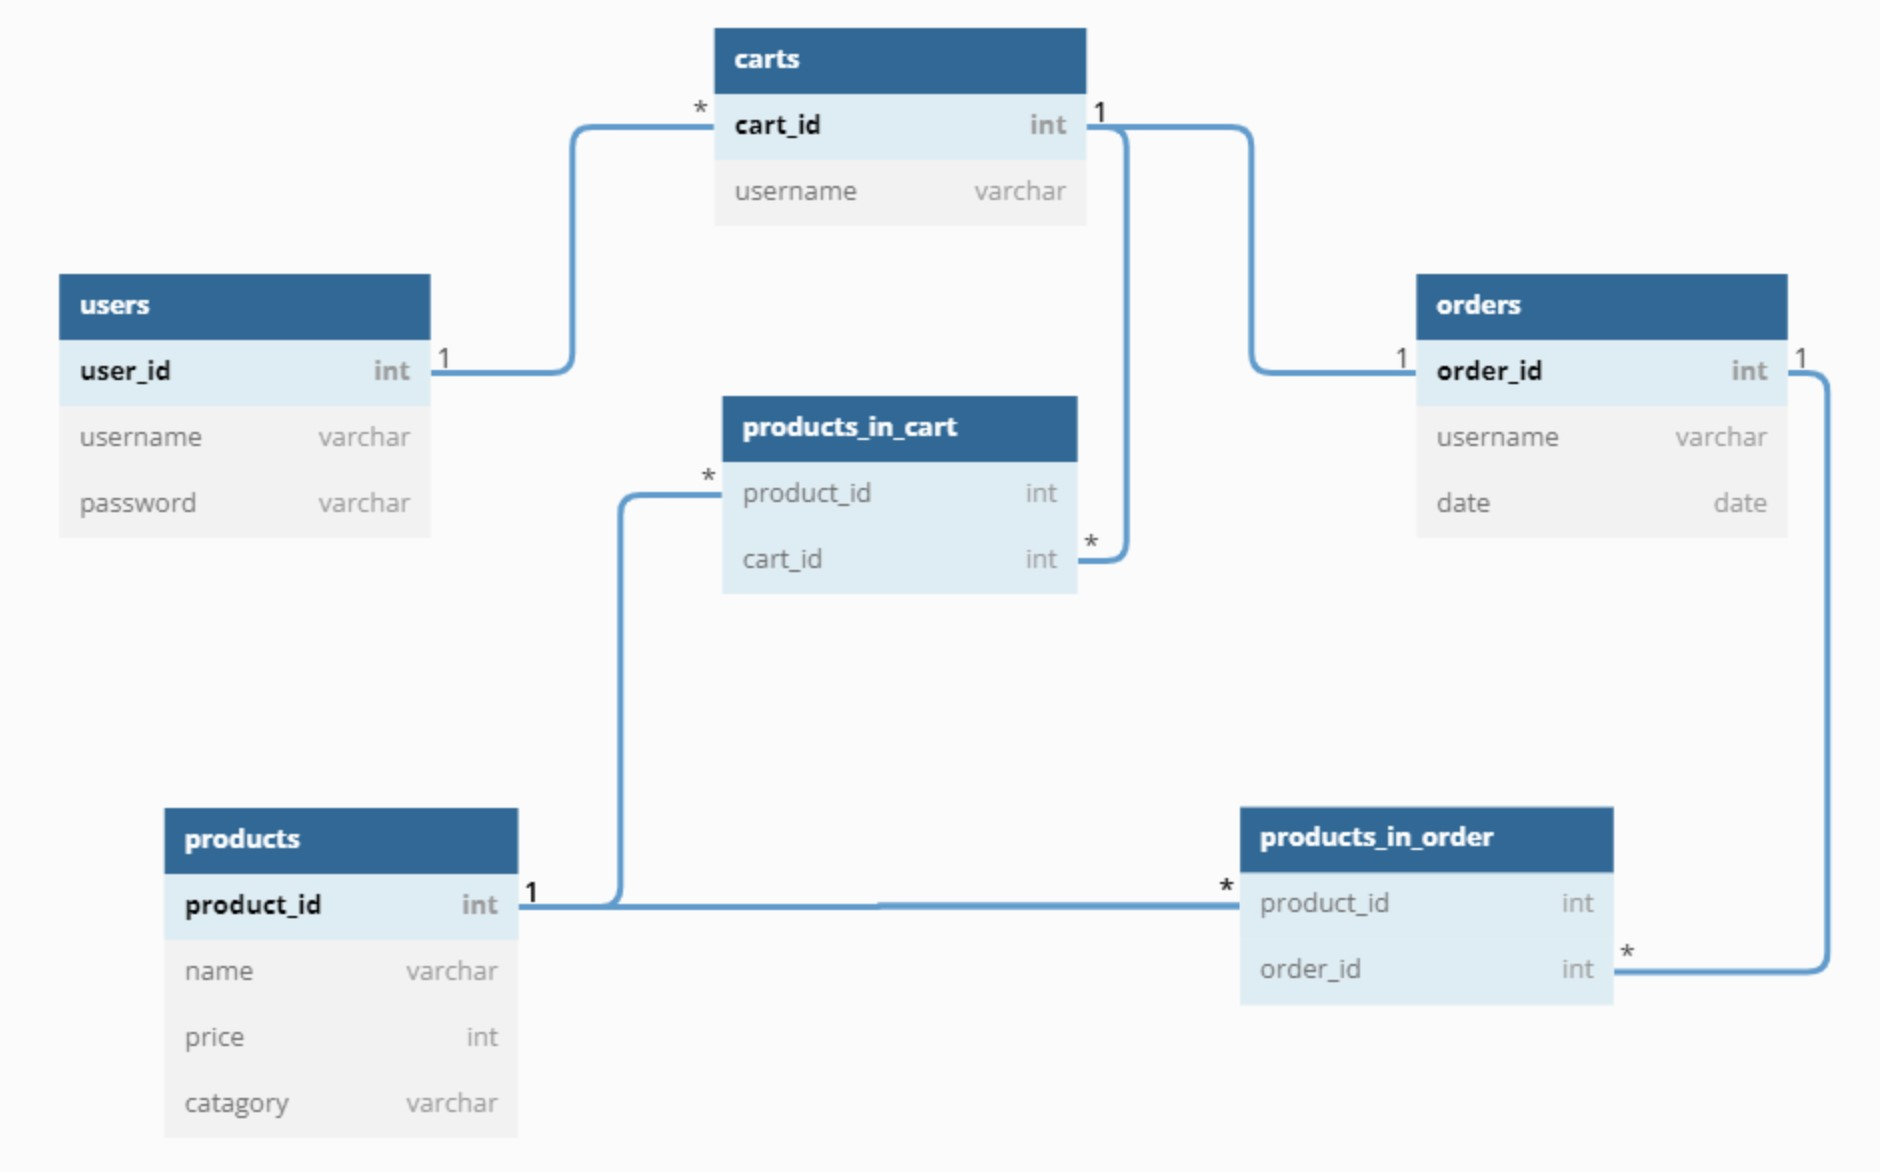
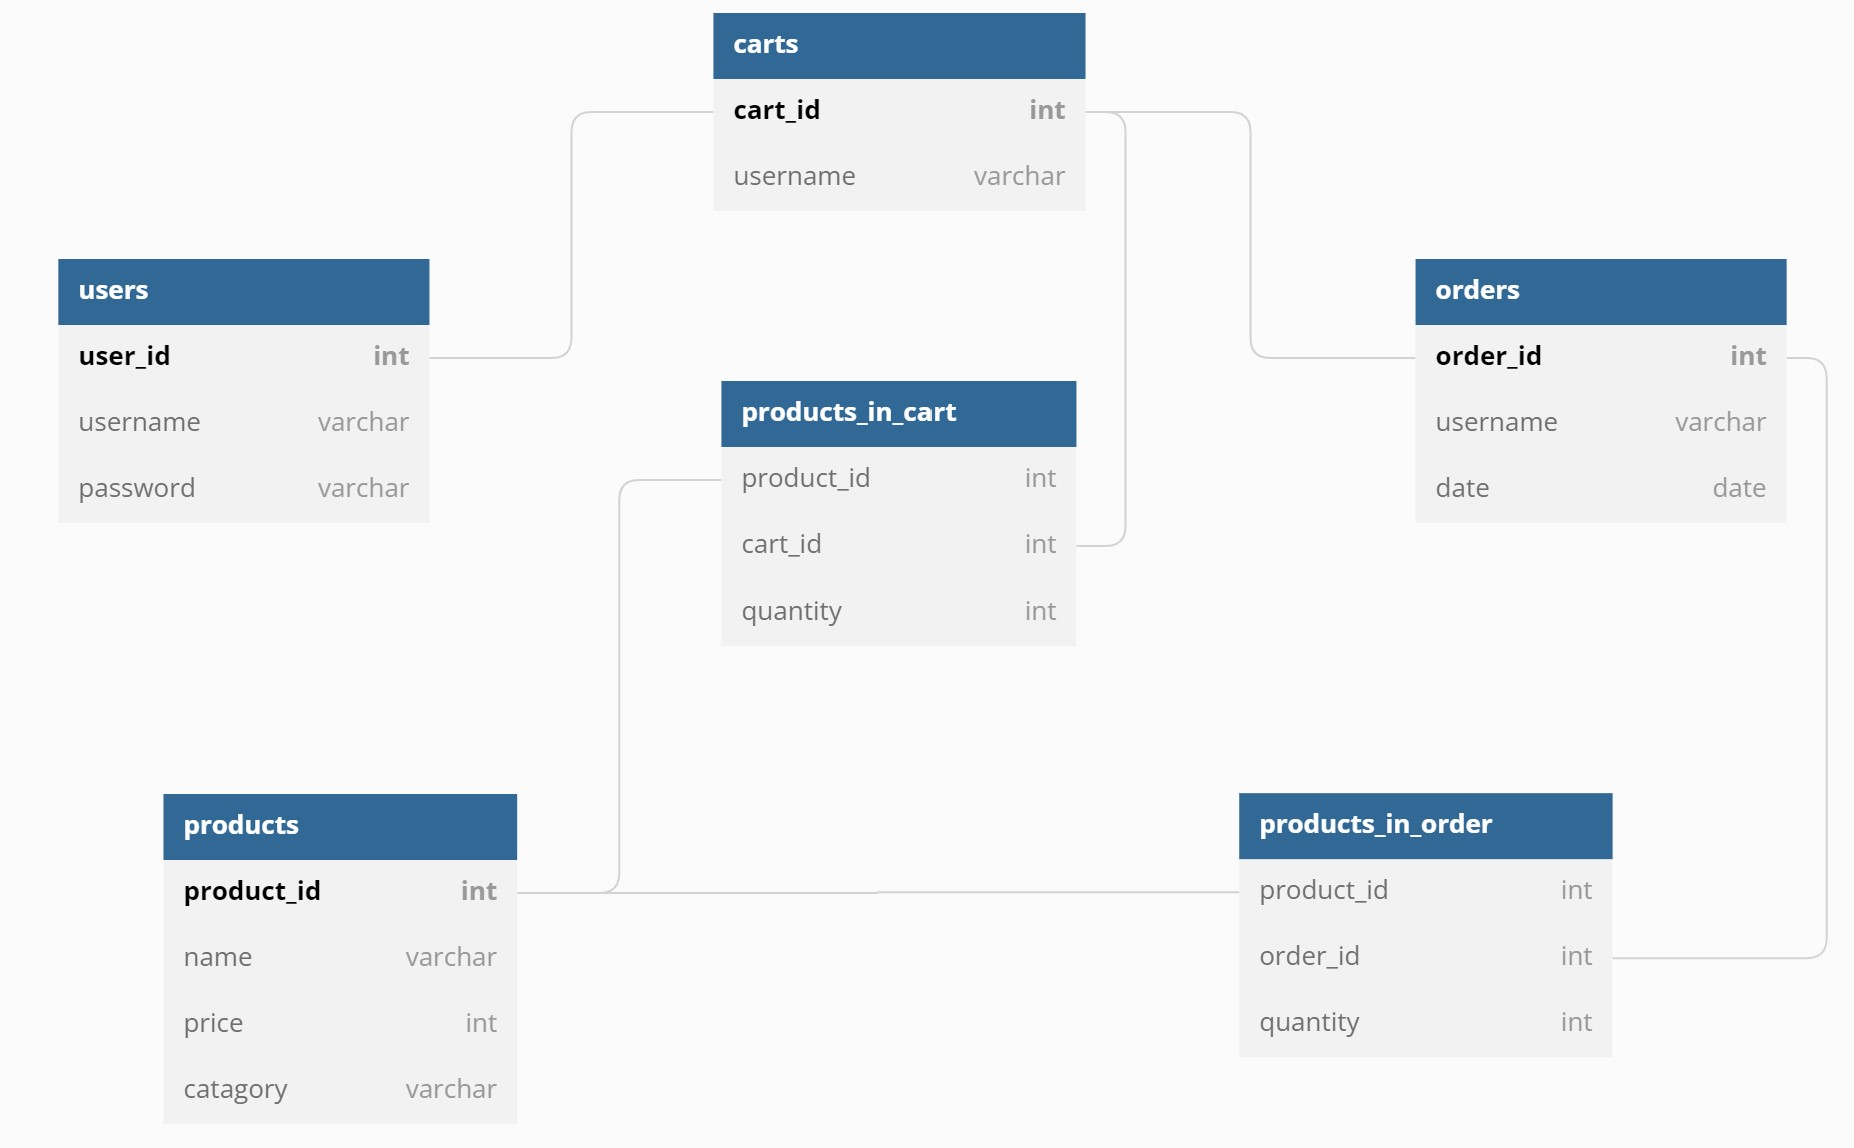
Set up cart endpoint

diff --git a/routers/cart.js b/routers/cart.js
@@ -1,0 +1,150 @@
+const express = require('express');
+const router = express.Router();
+const db = require('../utils/db');
+const checkAuthenticated = require('../utils/checkAuthenticated');
+
+router.use((req, res, next) => {
+    checkAuthenticated;
+    next();
+});
+
+router.use((req, res, next) => {
+    console.log("req.user = ", req.user);
+    if (!req.user.cartId) {
+        db.query(`SELECT cart_id FROM carts WHERE user_id=$1;`, [req.user.user_id], (err, result) => {
+            if (result.rows.length != 0) {
+                console.log('Cart found in database');
+                req.user.cartId = result.rows[0].cart_id;
+                console.log('Cart attached successfully!');
+                console.log("req.user = ", req.user);
+                next();
+            } else {
+                db.query('INSERT INTO carts (user_id) VALUES ($1);', [req.user.user_id], (err, result) => {
+                    if (err) {
+                        return next(err);
+                    }
+                    console.log('New cart created');
+
+                    db.query(`SELECT cart_id FROM carts WHERE user_id=$1;`, [req.user.user_id], (err, result) => {
+                        if (err) {
+                            return next(err);
+                        }
+                        req.user.cartId = result.rows[0].cart_id;
+                        console.log("req.user = ", req.user);
+                        console.log('Cart attached successfully!');
+                        next();
+                    })
+                })
+            }
+        })
+    } else {
+        console.log('Cart already attached'); //since the only data saved between calls is the user.id, you'd never get here.
+        next();
+    }
+});
+
+
+router.get('/', (req, res, next) => {
+    const { cartId } = req.user;
+
+    db.query(`
+            SELECT products.product_id,	products.name,	products.price,	products.category, products_in_cart.quantity
+            FROM products_in_cart
+            JOIN products
+                ON products_in_cart.product_id = products.product_id
+            WHERE cart_id=$1;`,
+        [cartId],
+        (err, result) => {
+            if (err) {
+                return next(err);
+            }
+            console.log('Showing cart');
+            res.send(result.rows);
+        })
+});
+
+
+router.post('/new-item/:productId', (req, res, next) => {
+    const { cartId } = req.user;
+    const { productId } = req.params;
+
+    db.query('SELECT * FROM products_in_cart WHERE cart_id = $1 AND product_id = $2;', [cartId, productId], (err, result) => {
+        if (result.rows.length == 0) {
+            //make sure product exists
+            db.query('SELECT * FROM products WHERE product_id = $1;', [productId], (err, result) => {
+                if (result.rows.length != 0) {
+                    db.query('INSERT INTO products_in_cart (cart_id, product_id) VALUES ($1, $2);', [cartId, productId], (err, result) => {
+                        if (err) {
+                            return next(err);
+                        }
+                        console.log('New product added: ', { "product_id": productId, "cartId": cartId });
+                        res.send('Product added to cart successfully!');
+                    });
+                }else{
+                    res.send('Product doesn`t exists');
+                }
+            });
+        } else {
+            db.query('UPDATE products_in_cart SET quantity = quantity+1 WHERE cart_id = $1 AND product_id = $2;', [cartId, productId], (err, result) => {
+                if (err) {
+                    return next(err);
+                }
+                res.send('Product added to cart successfully! (increased amount)');
+            })
+        }
+    });
+});
+
+
+
+router.post('/remove-item/:productId', (req, res, next) => {
+    const { cartId } = req.user;
+    const { productId } = req.params;
+
+    db.query('SELECT * FROM products_in_cart WHERE cart_id = $1 AND product_id = $2;', [cartId, productId], (err, result) => {
+        if (result.rows.length == 0) {
+            res.send('Product not found in cart!');
+        } else {
+            if (result.rows[0].quantity == 1) {
+                db.query('DELETE FROM products_in_cart WHERE cart_id = $1 AND product_id = $2;', [cartId, productId], (err, result) => {
+                    if (err) {
+                        return next(err);
+                    }
+                    res.send('Product removed from cart successfully!');
+                })
+            } else {
+                db.query('UPDATE products_in_cart SET quantity = quantity-1 WHERE cart_id = $1 AND product_id = $2;', [cartId, productId], (err, result) => {
+                    if (err) {
+                        return next(err);
+                    }
+                    res.send('Product removed from cart successfully! (decreased amount)');
+                })
+            }
+        }
+    });
+});
+
+
+
+router.post('/clear-cart', (req, res, next) => {
+    const { cartId } = req.user;
+
+    db.query('DELETE FROM products_in_cart WHERE cart_id = $1;', [cartId], (err, result) => {
+        if (err) {
+            return next(err);
+        }
+        res.send('Cart cleared successfully!');
+    })
+});
+
+
+
+module.exports = router;
+
+
+// /cart/ V
+// /cart/new-item/:productId V
+// /cart/remove-item/:productId V
+// /cart/clear-cart V
+
+// /cart/checkout (-> delete cart)

diff --git a/routers/users.js b/routers/users.js
@@ -4,6 +4,7 @@ const router = express.Router();
 const bcrypt = require('bcrypt');
 const db = require('../utils/db');
 const checkAuthenticated = require('../utils/checkAuthenticated');
+const deleteCart = require('../utils/deleteCart');
 
 
 
@@ -80,10 +81,13 @@ router.post('/:username/update', checkAuthenticated, async (req, res, next) => {
 
 router.post('/:username/delete', checkAuthenticated, async (req, res, next) => {
     const { username } = req.params;
+    const { user_id } = req.user;
 
     if (username != req.user.username) {
         return res.send('Not authorised to update other users!');
     }
+
+    await deleteCart(db, user_id, next);
 
     db.query('SELECT * FROM users WHERE username = $1', [username], (err, result) => {
         if (err) {
@@ -97,12 +101,13 @@ router.post('/:username/delete', checkAuthenticated, async (req, res, next) => {
                 if (err) {
                     return next(err);
                 }
-                res.send('Deleted successfully!');
             })
         } else {
             res.send('No user found!');
         }
-    })
+    });
+
+    res.send('User deleted successfully!');
 });
 
 

diff --git a/server.js b/server.js
@@ -37,6 +37,8 @@ const users = require('./routers/users');
 app.use('/users', users);
 const products = require('./routers/products');
 app.use('/products', products);
+const cart = require('./routers/cart');
+app.use('/cart', cart);
 
 
 
@@ -49,17 +51,20 @@ app.use('/products', products);
 
 
 // /users/register V
-// /users/login V (-> return cartId to be saved in local storage)
-// /users/logout V (-> delete all related carts)
+// /users/login V
+// /users/logout V
 // /users/:username/update V
 // /users/:username/delete V (-> delete all related carts)
 // /users/:username/profile V
 
 
-// /carts/:cartId/new-item/:productId
-// /carts/:cartId/remove-item/:productId
-// /carts/:cartId/clear-cart
-// /carts/:cartId/checkout (-> delete cart)
+// /cart/ V
+// /cart/new-item/:productId V
+// /cart/remove-item/:productId V
+// /cart/clear-cart V
+
+// /cart/checkout (-> delete cart)
+
 
 // /orders/
 // /orders/:orderId

diff --git a/utils/deleteCart.js b/utils/deleteCart.js
@@ -1,0 +1,22 @@
+const deleteCart = async (db, user_id, next) => {
+    db.query('SELECT cart_id FROM carts WHERE user_id=$1;', [user_id], (err, result) => {
+        if (result.rows.length != 0) {
+            cartId = result.rows[0].cart_id;
+            db.query('DELETE FROM products_in_cart WHERE cart_id = $1;', [cartId], (err, result) => {
+                if (err) {
+                    return next(err);
+                }
+            })
+
+            db.query('DELETE FROM carts WHERE user_id = $1;', [user_id], (err, result) => {
+                if (err) {
+                    return next(err);
+                }
+            });
+        }
+    });
+    return next();
+};
+
+
+module.exports = deleteCart;
